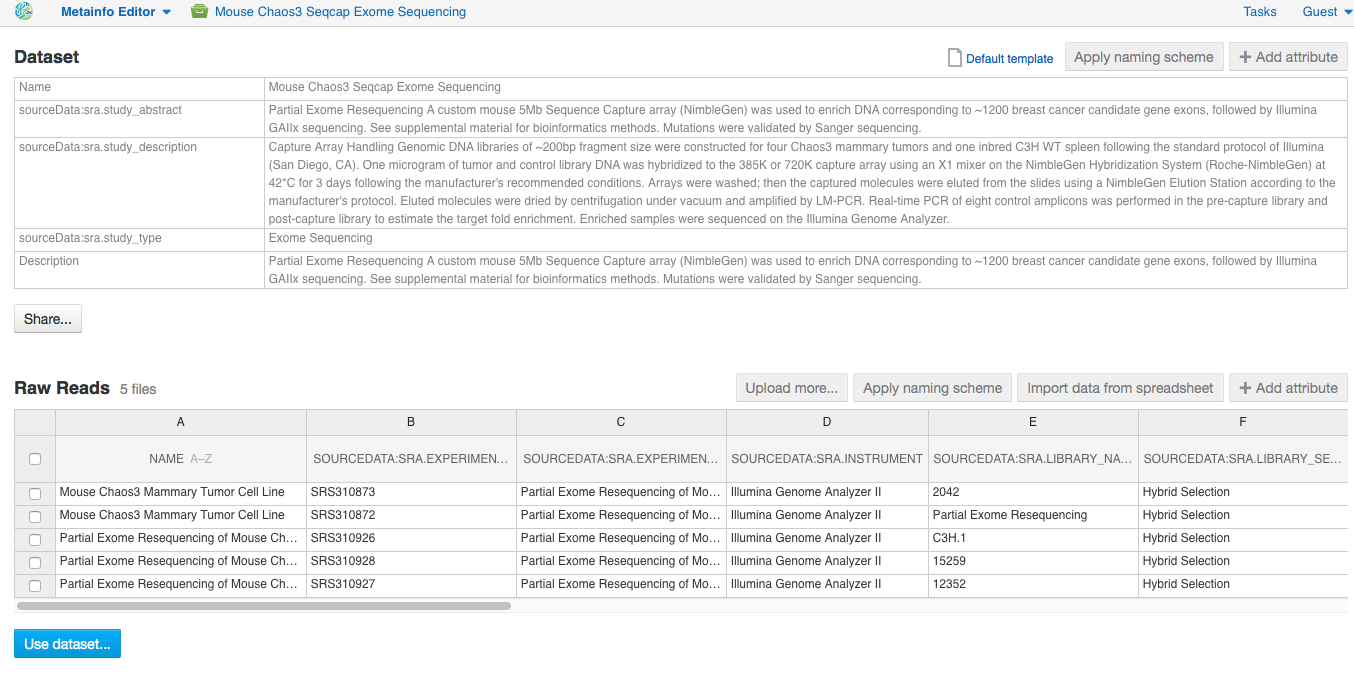
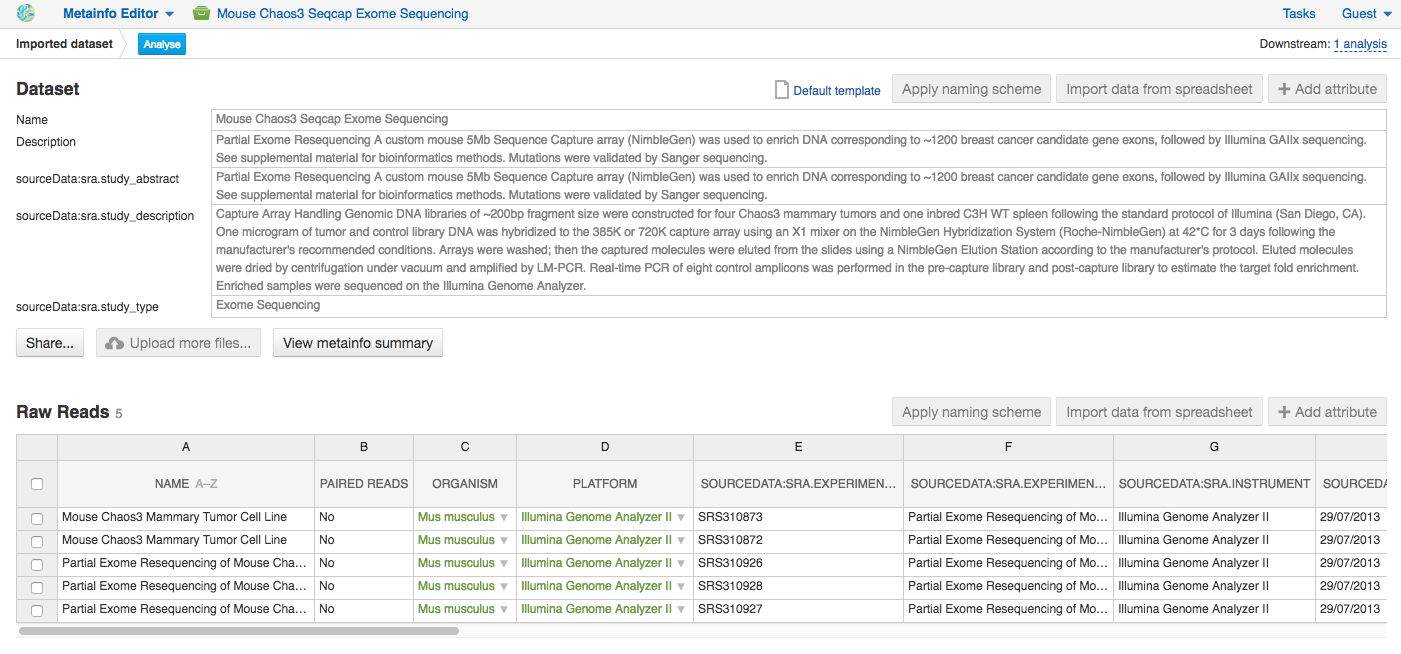
provenance crumbs; update pictures

diff --git a/source/guide/using-genestack-browse-data_include.rst b/source/guide/using-genestack-browse-data_include.rst
@@ -64,12 +64,8 @@ dataset and its assays.
 
 .. image:: images/metainfo-editor.png
 
-
-Besides, on the Metainfo editor page you can run the assays through a pipeline via the button
-**Use dataset...**. You can either use an existing data flow matching the assays or build a
-new pipeline step by step.
-
-.. update img: use GSF802958 as an example
+Besides,directly from the Metainfo Editor page you can start building pipeline step by step via the button
+**Analyse**.
 
 .. image:: images/new-df.png
 
@@ -198,7 +194,7 @@ Unlike other metainfo attributes, it will never change for any file.
 
 .. image:: images/parent-containers.png
 
-Above the file manager pane, you can find the **Import** button. Clicking
+Above the File Manager pane, you can find the **Import** button. Clicking
 it takes you to the Import application page, where you can upload your files,
 import them into the platform and edit their metainfo. 
 
